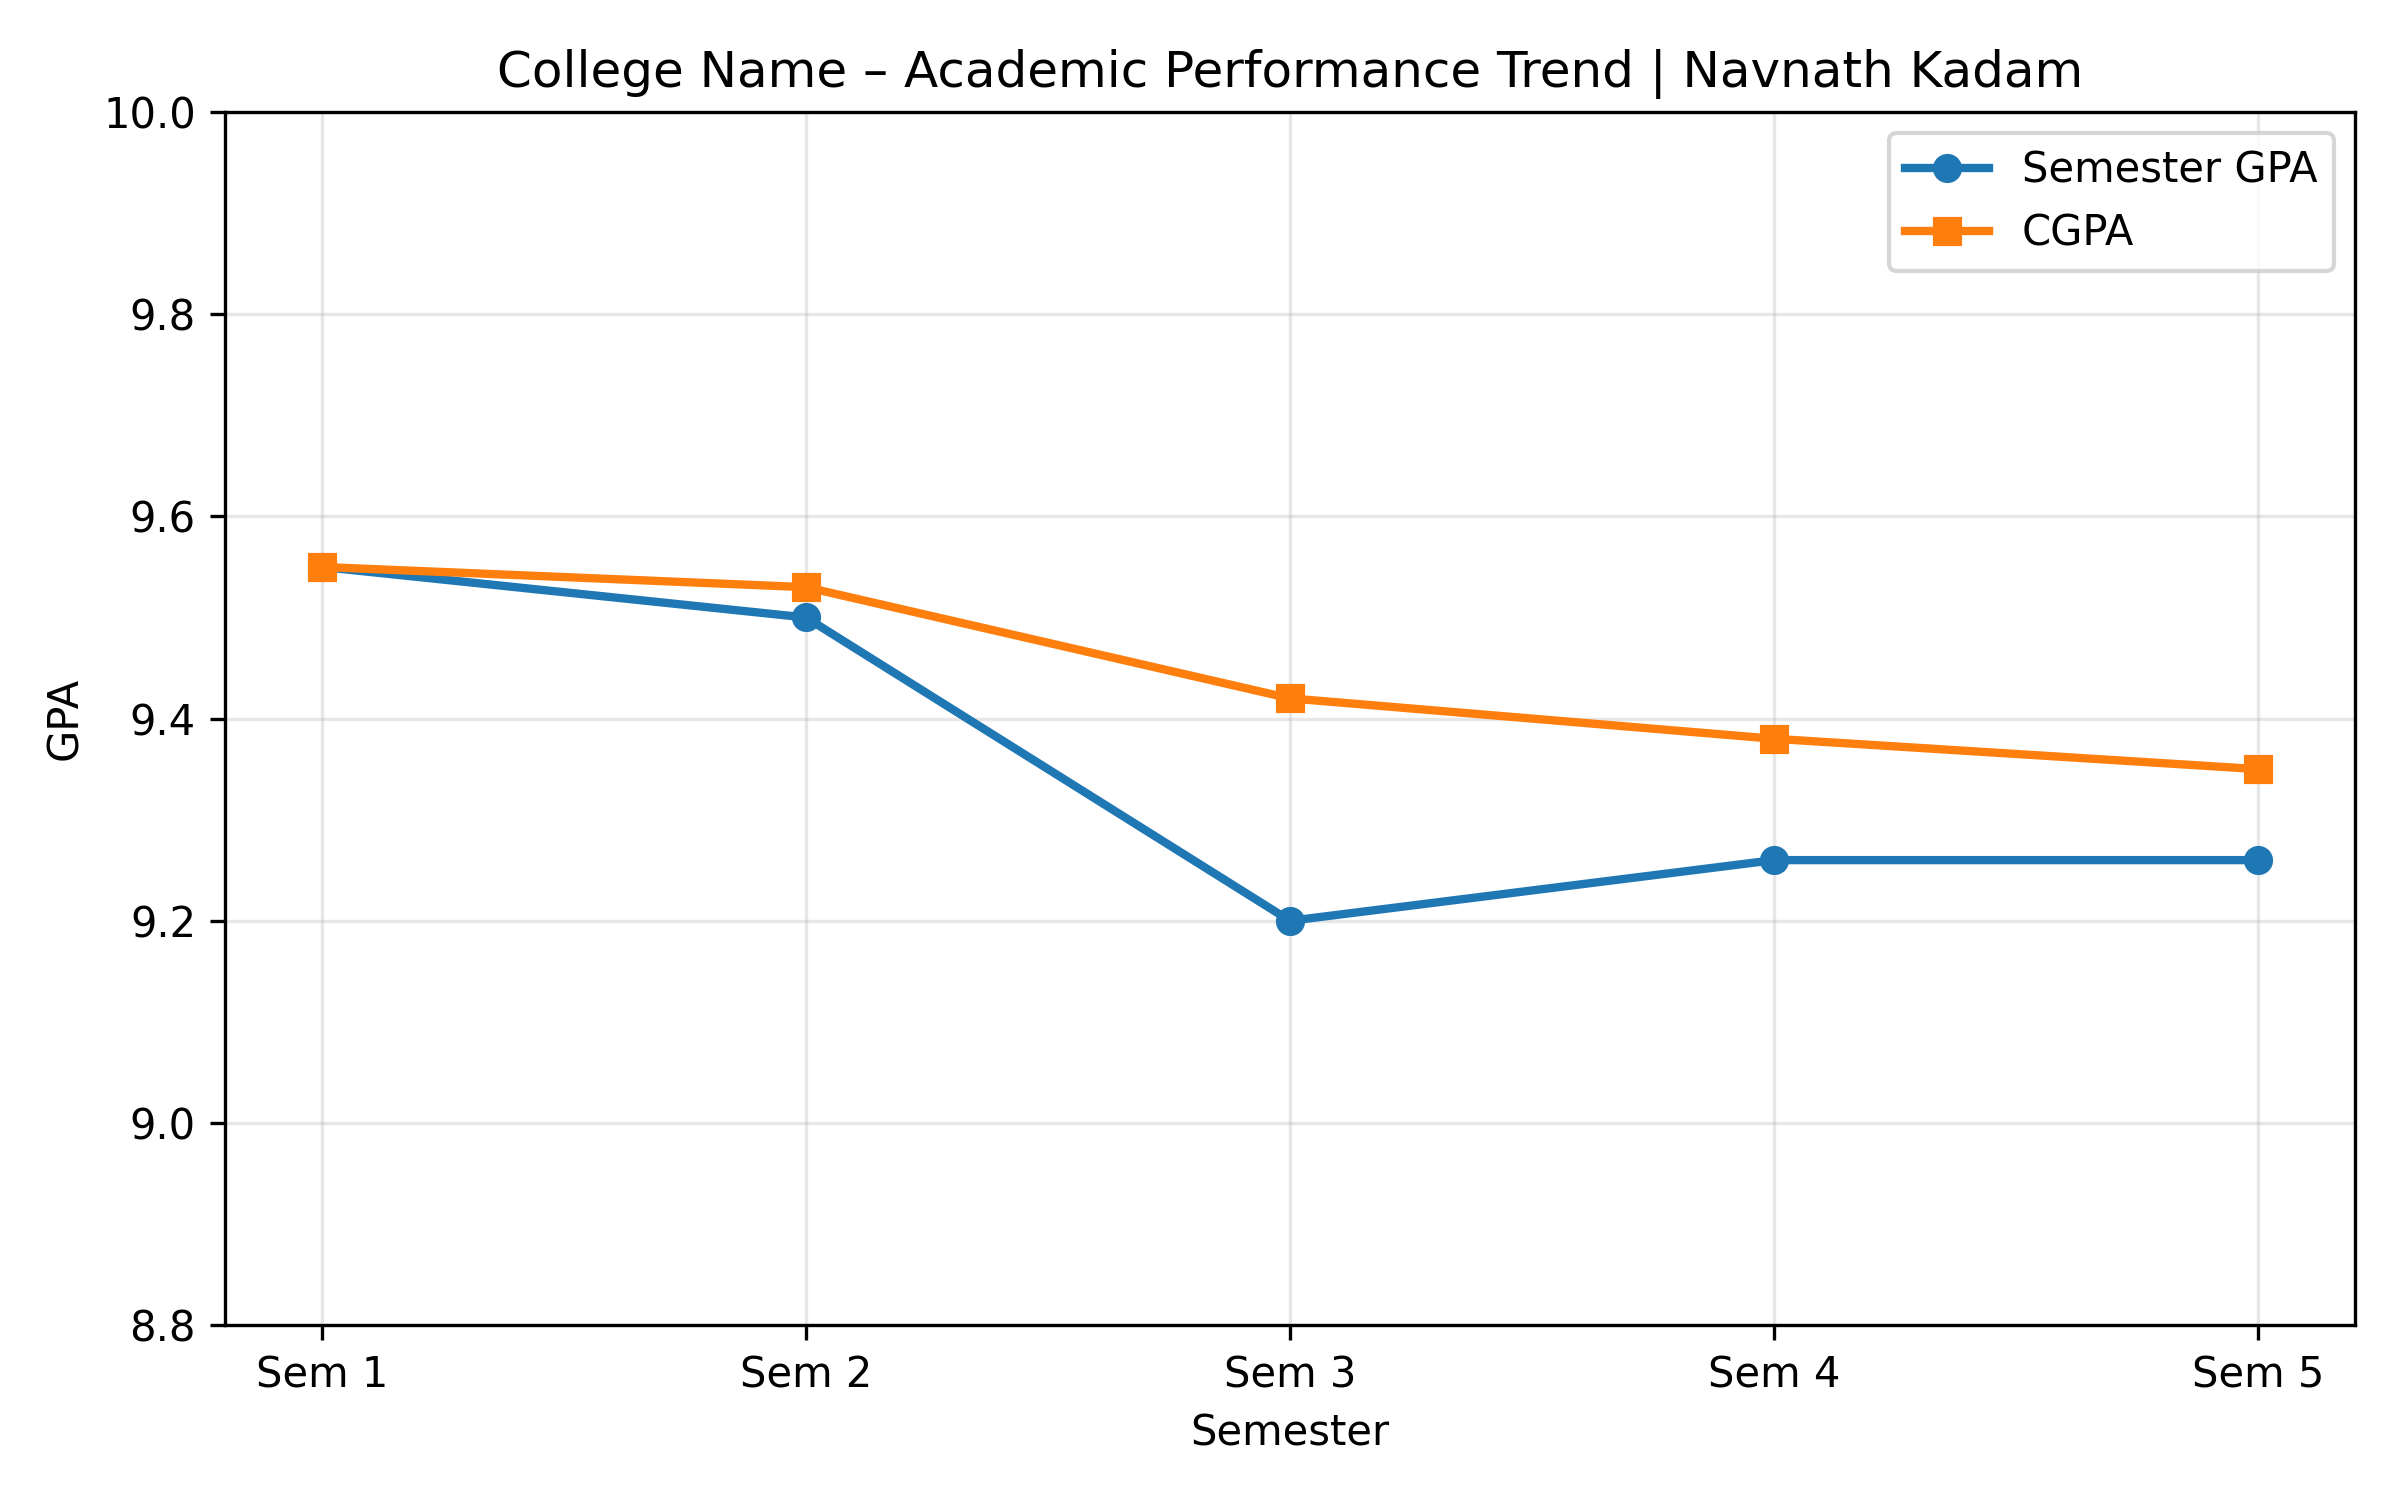
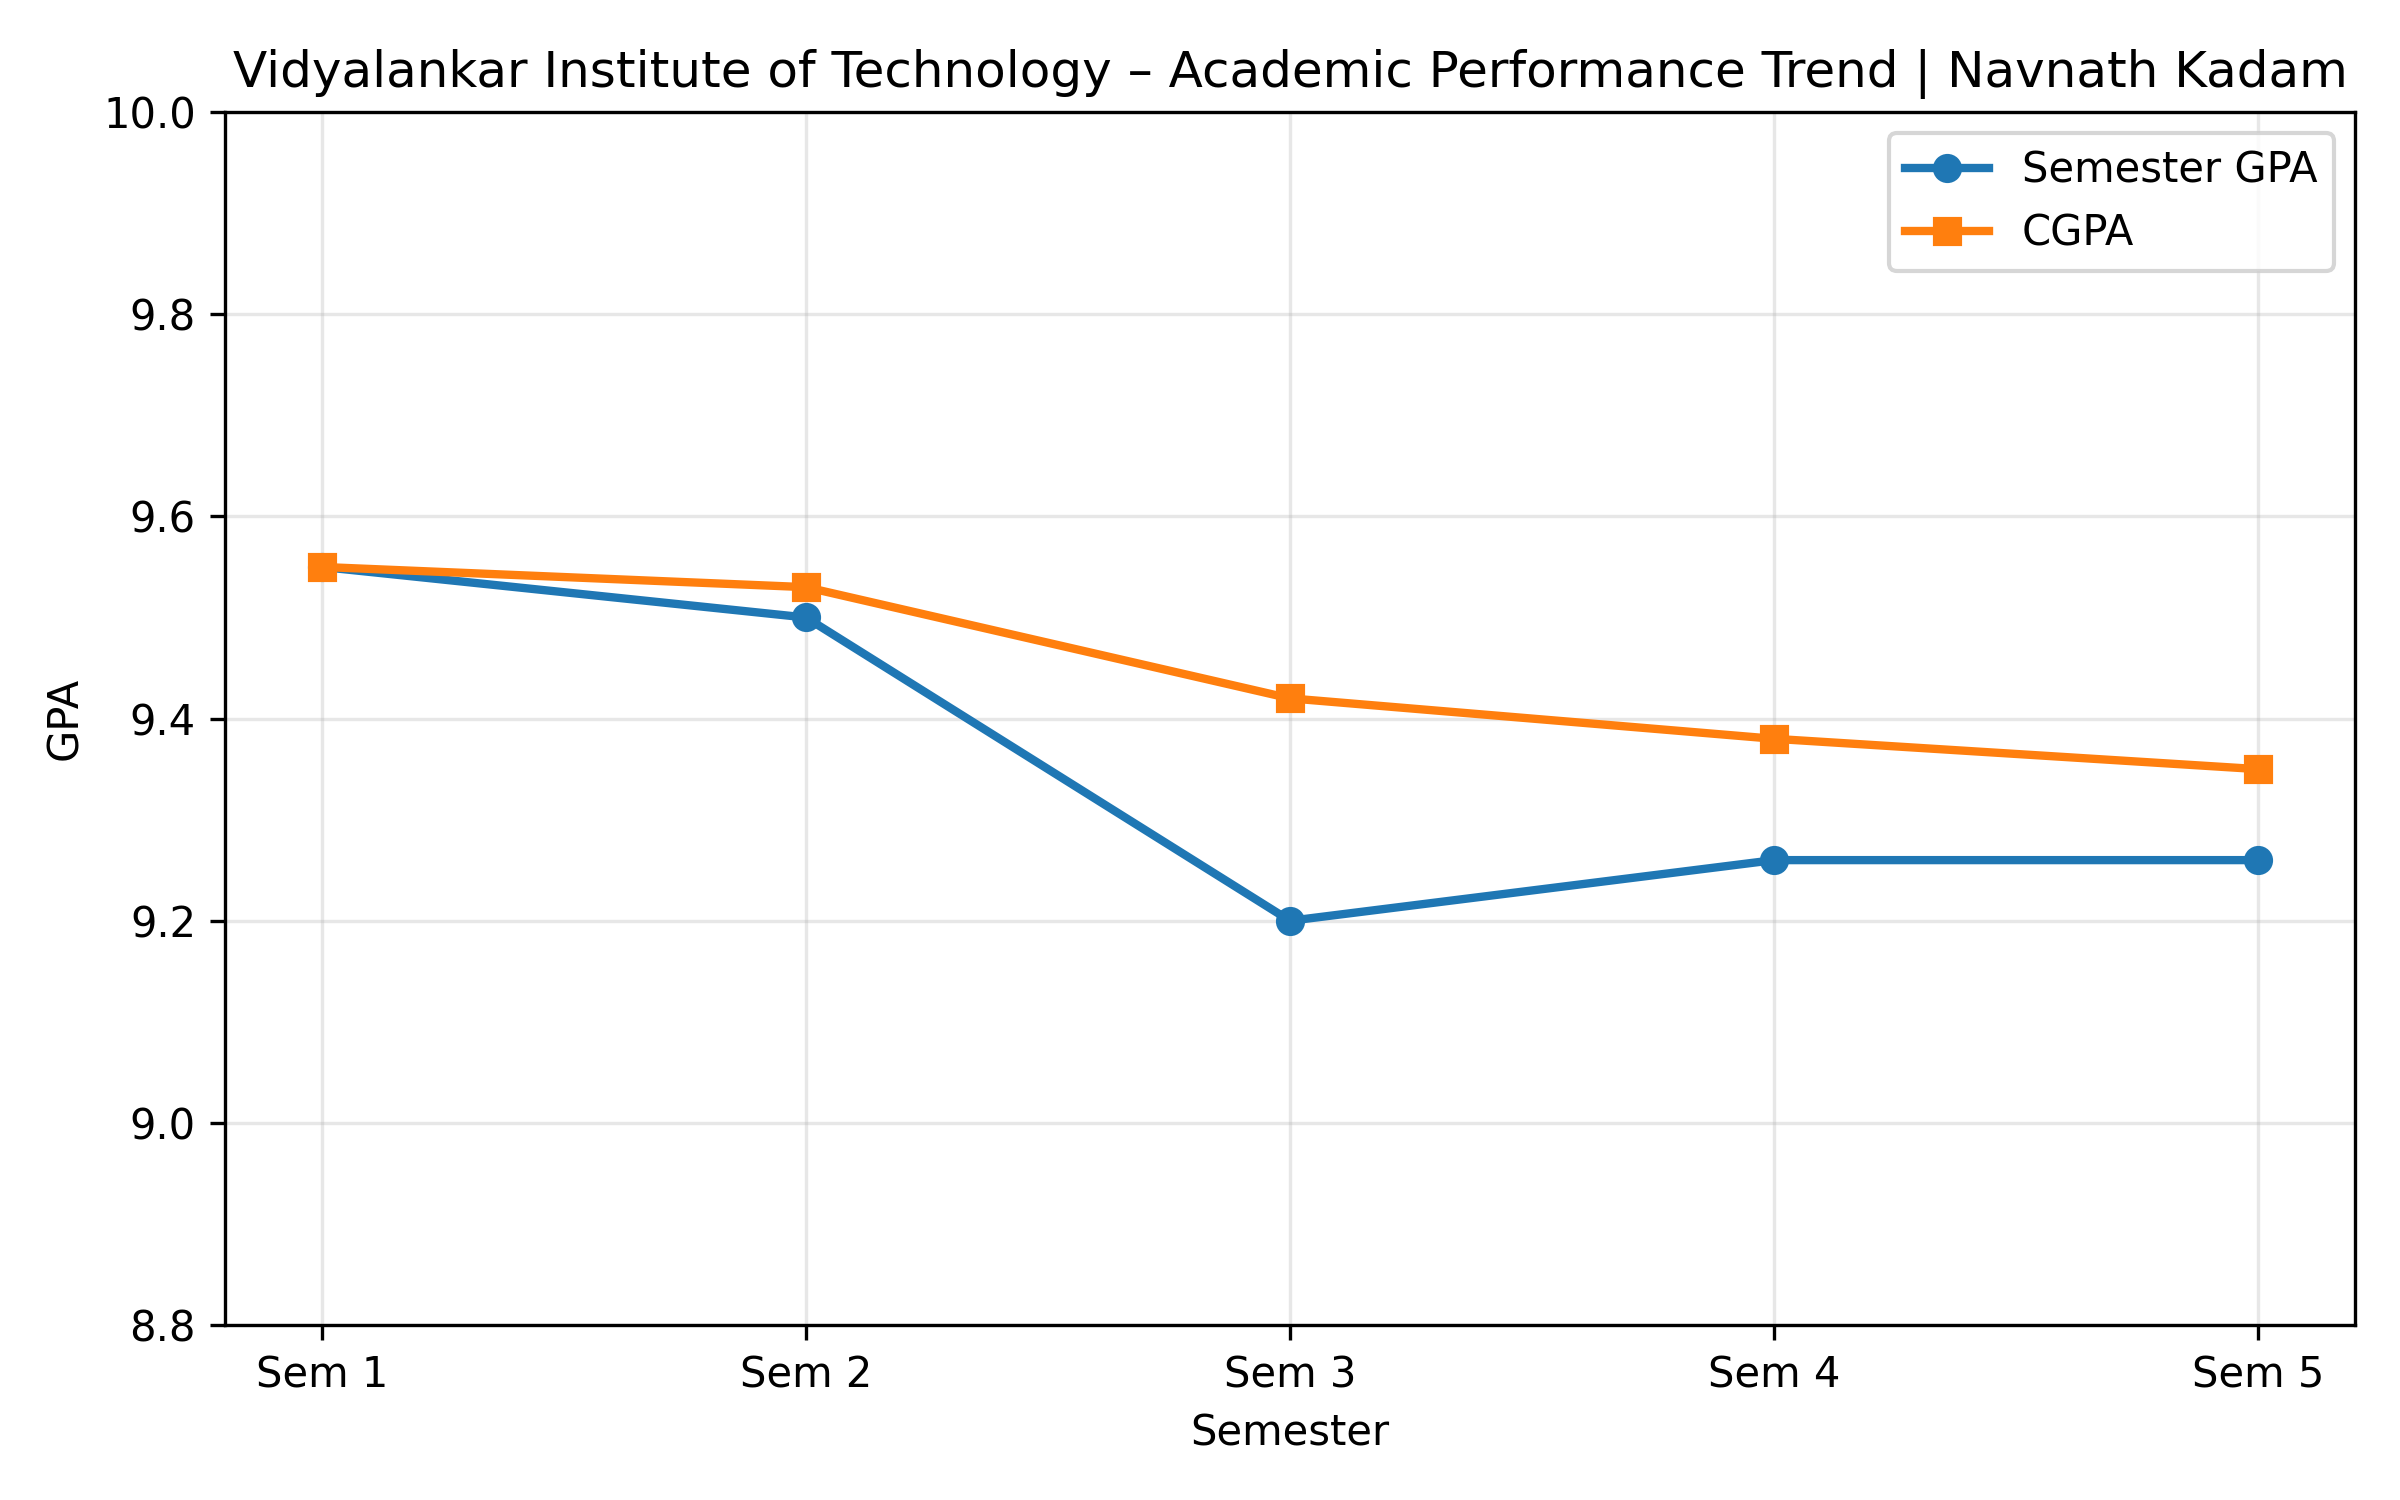
feat: changes trend

Changed region(s): [[0.0938, 0.0307, 0.9688, 0.0613]]

diff --git a/sem.py b/sem.py
@@ -9,7 +9,7 @@ plt.figure(figsize=(8,5))
 plt.plot(semesters, gpa, marker='o', linewidth=2, label="Semester GPA")
 plt.plot(semesters, cgpa, marker='s', linewidth=2, label="CGPA")
 
-plt.title("College Name – Academic Performance Trend | Navnath Kadam")
+plt.title("Vidyalankar Institute of Technology – Academic Performance Trend | Navnath Kadam")
 plt.xlabel("Semester")
 plt.ylabel("GPA")
 plt.ylim(8.8,10)
